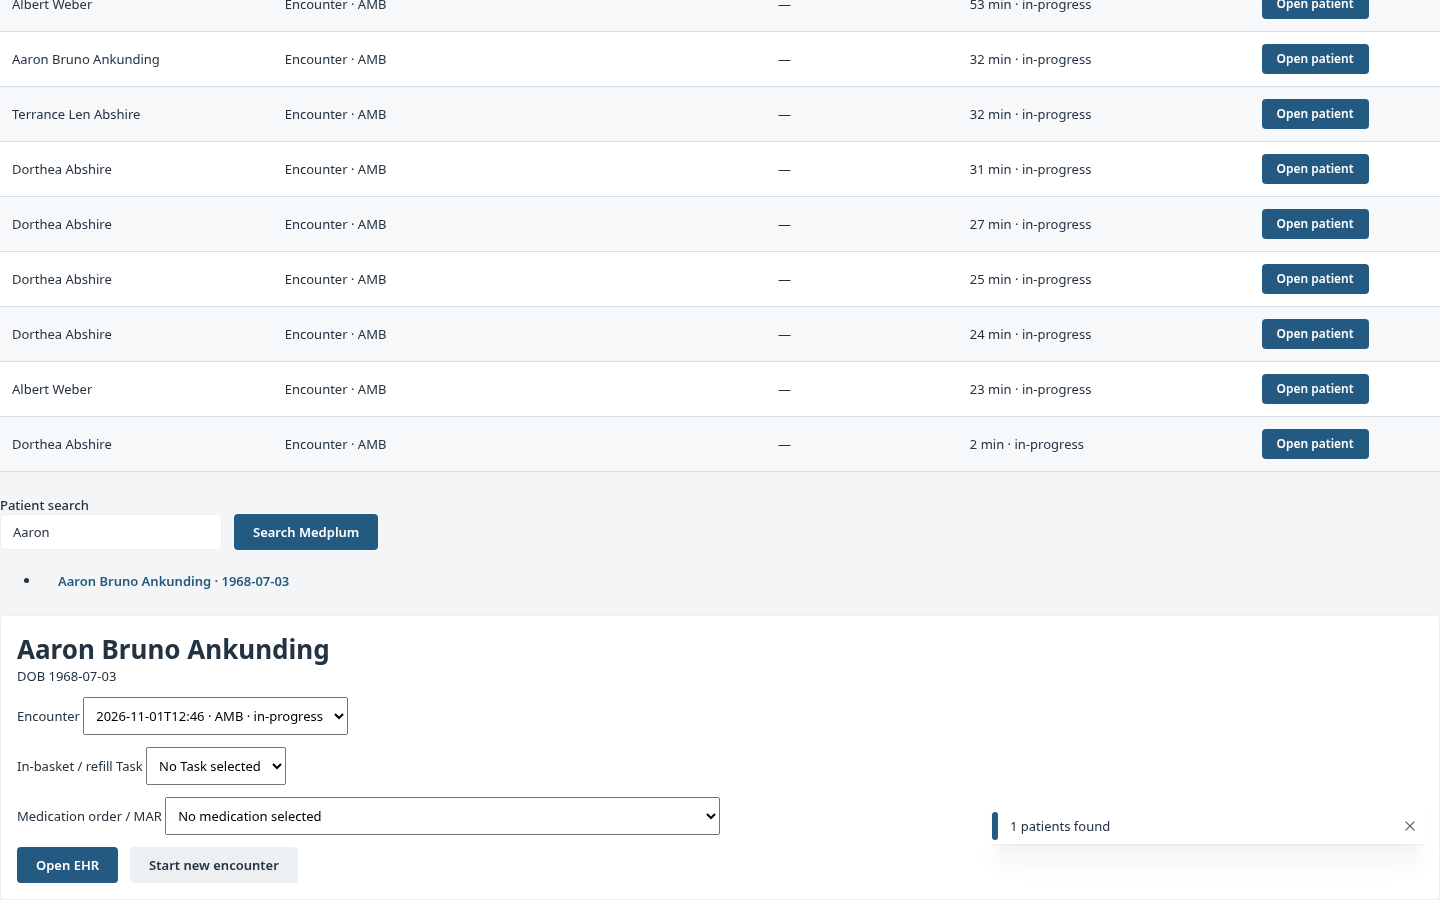
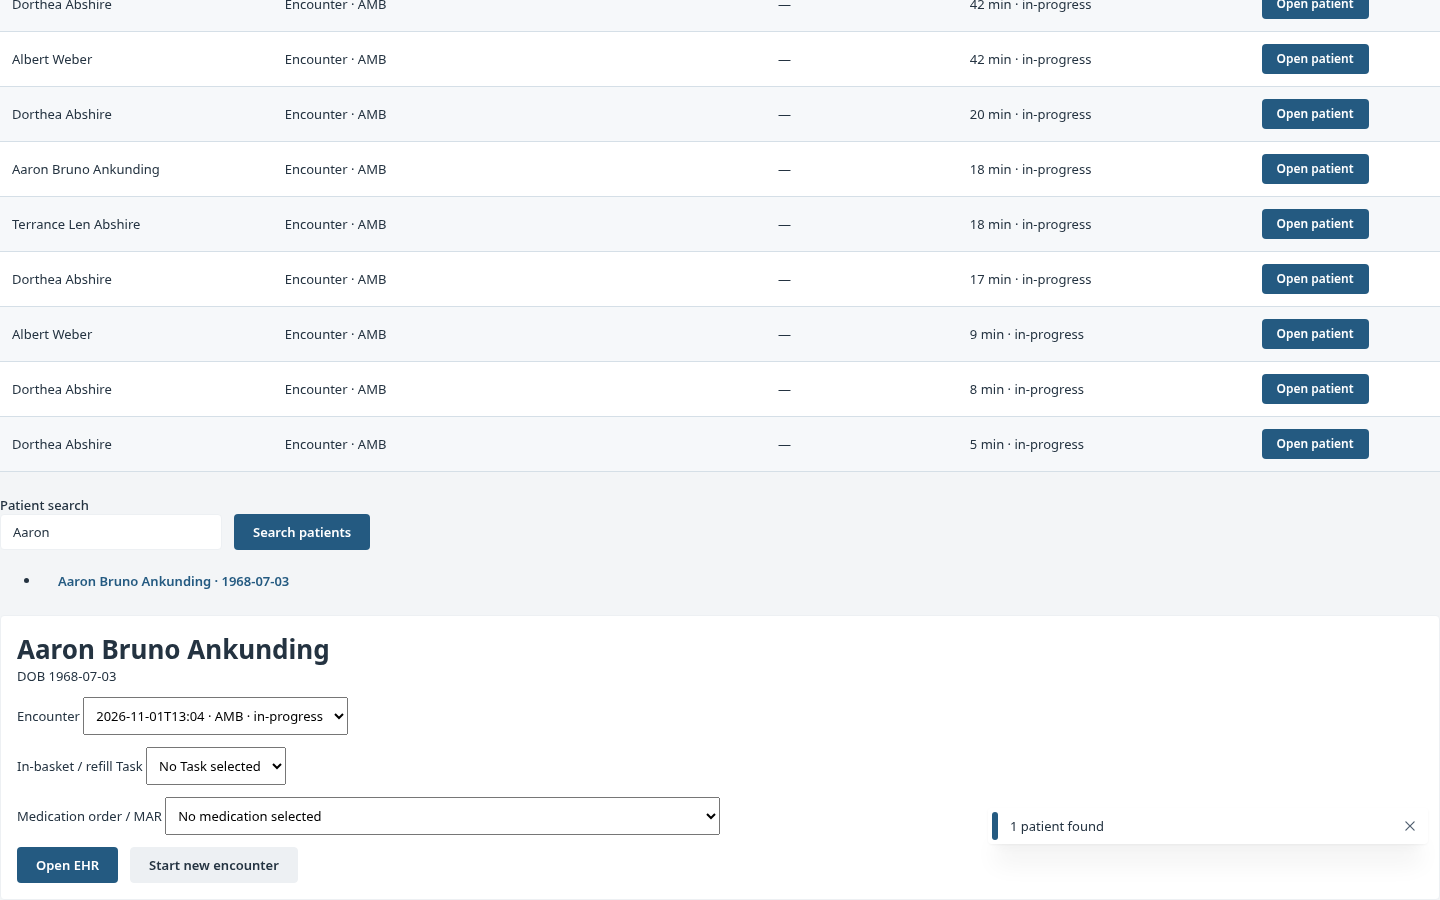
Clarify patient-search captions in the live workspace
Use Search patients and Searching patients for the existing lookup action, and the singular patient-found message for one result. Keep the search callback and clinical context unchanged; refresh selectors and live screenshots.

Validate the new app artifact with app and agent checks, live-login and clinical walks, semantic fidelity, and the app/EHR control audit. Reuse native proof and simulation evidence only for the identical checked Lean/WASM fingerprint.

diff --git a/app/e2e/live-login.spec.ts b/app/e2e/live-login.spec.ts
@@ -42,7 +42,7 @@ test("local P1 quick-login, patient search, real chart and session restoration",
   ).toBeVisible();
   await page.getByLabel("Patient search", { exact: true }).fill("Aaron");
   await page
-    .getByRole("button", { name: "Search Medplum", exact: true })
+    .getByRole("button", { name: "Search patients", exact: true })
     .click();
   await page
     .getByRole("button", { name: /Aaron.*Ankunding/ })
@@ -77,7 +77,7 @@ test("baseline entry opens the selected clinician's certified role view", async 
   ).toBeVisible();
   await page.getByLabel("Patient search", { exact: true }).fill("Aaron");
   await page
-    .getByRole("button", { name: "Search Medplum", exact: true })
+    .getByRole("button", { name: "Search patients", exact: true })
     .click();
   await page
     .getByRole("button", { name: /Aaron.*Ankunding/ })
@@ -87,5 +87,10 @@ test("baseline entry opens the selected clinician's certified role view", async 
   await expect(page.locator(".clinical-app")).toBeVisible();
   expect(
     await page.evaluate(() => window.__buttonAuditSession?.program),
-  ).toMatchObject({ id: "canonical-P3", owner: "P3", role: "rn", specVersion: "v3" });
+  ).toMatchObject({
+    id: "canonical-P3",
+    owner: "P3",
+    role: "rn",
+    specVersion: "v3",
+  });
 });

diff --git a/app/e2e/audit/buttons.spec.ts b/app/e2e/audit/buttons.spec.ts
@@ -173,7 +173,7 @@ test("app shell: sampled controls have an effect or an explained disabled state"
         );
       }
       await audit.click(
-        page.getByRole("button", { name: "Search Medplum", exact: true }),
+        page.getByRole("button", { name: "Search patients", exact: true }),
         undefined,
         "app",
       );
@@ -682,7 +682,7 @@ test("Lean EHR: breadth-first observed screens, isolated button clicks and real 
         .getByLabel("Patient search", { exact: true })
         .fill(names[0] ?? "");
       await page
-        .getByRole("button", { name: "Search Medplum", exact: true })
+        .getByRole("button", { name: "Search patients", exact: true })
         .click();
       await page
         .locator(".patient-search + ul button")

diff --git a/app/src/LiveApp.tsx b/app/src/LiveApp.tsx
@@ -959,7 +959,7 @@ function Home({
             .then((results) => {
               setPatients(results);
               notifications.show({
-                message: `${results.length} patients found`,
+                message: `${results.length} patient${results.length === 1 ? "" : "s"} found`,
               });
             })
             .catch((e: unknown) => setError(errorText(e)))
@@ -975,9 +975,9 @@ function Home({
         <Button
           type="submit"
           loading={pending}
-          title={pending ? "Searching Medplum" : undefined}
+          title={pending ? "Searching patients" : undefined}
         >
-          Search Medplum
+          Search patients
         </Button>
       </form>
       <ul>

diff --git a/app/e2e/live-search.spec.ts b/app/e2e/live-search.spec.ts
@@ -12,7 +12,7 @@ for (const name of ["Aaron", "Terrance"]) {
     await page.getByRole("button", { name: /^P1 · / }).click();
     await page.getByLabel("Patient search", { exact: true }).fill(name);
     await page
-      .getByRole("button", { name: "Search Medplum", exact: true })
+      .getByRole("button", { name: "Search patients", exact: true })
       .click();
     await page
       .getByRole("button", {

diff --git a/app/e2e/surgery-live-realism.spec.ts b/app/e2e/surgery-live-realism.spec.ts
@@ -11,7 +11,7 @@ async function openClinic(
   await page.getByRole("button", { name: /^P5 · / }).click();
   await page.getByLabel("Patient search", { exact: true }).fill(name);
   await page
-    .getByRole("button", { name: "Search Medplum", exact: true })
+    .getByRole("button", { name: "Search patients", exact: true })
     .click();
   await page
     .getByRole("button", {

diff --git a/docs/design/ehr-ui-research.md b/docs/design/ehr-ui-research.md
@@ -277,6 +277,16 @@ pass. The refreshed six-role control audit and regression pass: 2,704 working co
 [projection evidence](../audits/surg-controls.json) retain the source/artifact
 bindings and exact caption changes.
 
+
+The final app-shell wording pass renames the existing patient-search action to
+`Search patients`, uses `Searching patients` while pending, and correctly says
+`1 patient found` for a single result. Its search callback, permissions and clinical
+context are unchanged. The live picker/save screenshots are refreshed. The
+20-test clinical/live-login/search/contrast walk passes, along with app
+build/lint/226 tests and agent typecheck/lint/84 tests. Native proof, certification,
+simulation and measurement evidence is reused only for the identical Lean/WASM
+fingerprint `82f2f766`; `wasm-check` confirms it remains current. The final 46-state browser gate passes 101 checks with three fixture-dependent skips. The six-role control audit and regression pass with 2,704 working controls, 113 explained disabled states, zero dead controls and zero errors. A shared temporary-filesystem quota interrupted the first audit before completion; completed SURG proof scratch was removed and a fresh audit/regression passed against the identical app artifact. The report preserves bounded coverage and remaining checkpoints.
+
 Research date: 2026-10-31. Scope: BRIEF §§5, 5a, 6 and workflows W1–W7. Companion deliverables: [canonical blueprint](canonical-blueprint.md) and [visual style](visual-style.md).
 
 ## Evidence and reuse boundary
